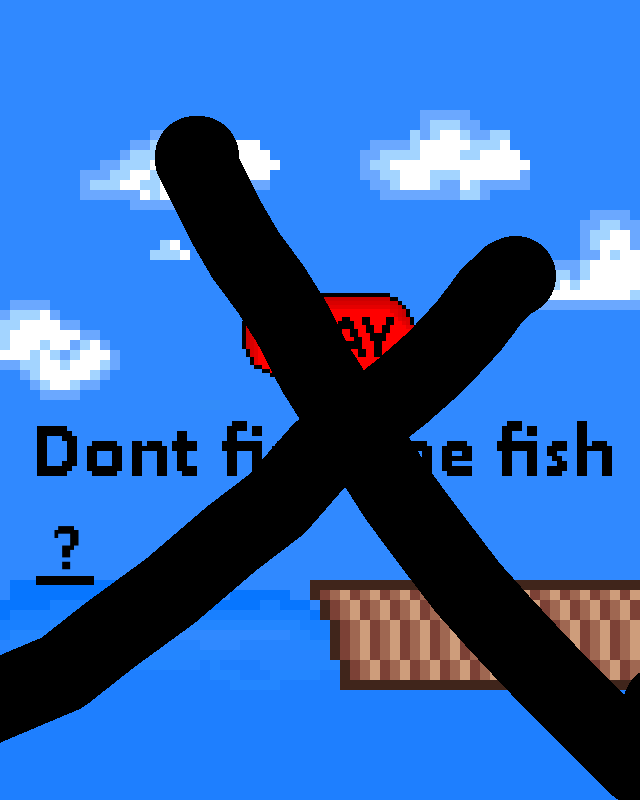
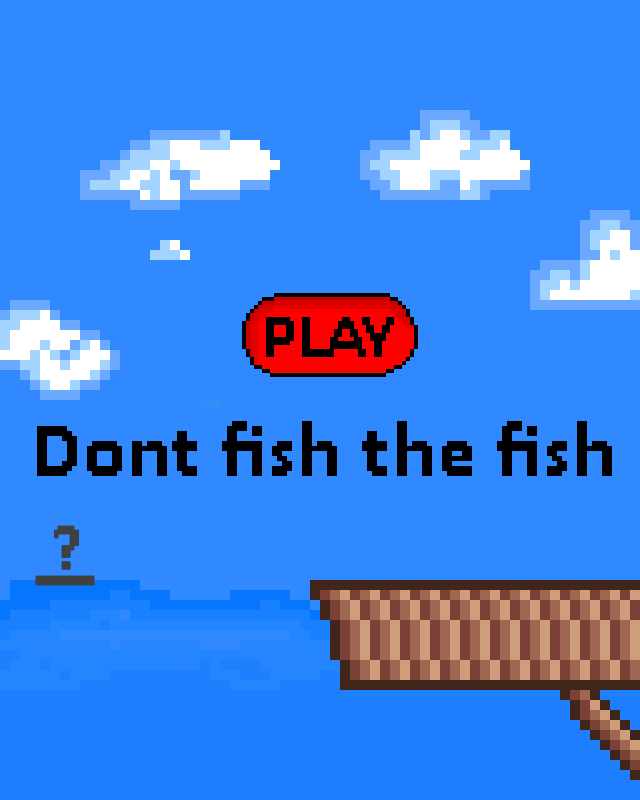
done?

Changed region(s): [[0.0, 0.125, 1.0, 1.0]]

diff --git a/build/build.js b/build/build.js
@@ -123,6 +123,33 @@ var Krog = (function () {
     };
     return Krog;
 }());
+var TutorialeKnap = (function () {
+    function TutorialeKnap(x, y, w, h) {
+        this.x = x;
+        this.y = y;
+        this.w = w;
+        this.h = h;
+    }
+    TutorialeKnap.prototype.clicked = function (func) {
+        if (playState != playStateList.tutoriale)
+            return;
+        if (mouseX > this.x && mouseX < this.x + this.w) {
+            if (mouseY > this.y && mouseY < this.y + this.h) {
+                func();
+            }
+        }
+    };
+    TutorialeKnap.prototype.hover = function () {
+        if (mouseX > this.x && mouseX < this.x + this.w) {
+            if (mouseY > this.y && mouseY < this.y + this.h) {
+                return true;
+            }
+            return false;
+        }
+        return false;
+    };
+    return TutorialeKnap;
+}());
 var PlayKnap = (function () {
     function PlayKnap(x, y, w, h, img) {
         this.img = img;
@@ -169,8 +196,14 @@ var Skrald = (function (_super) {
     }
     return Skrald;
 }(WaterItems));
-function loadImages() {
+function loadSprites() {
     mySound = loadSound("sketch/assets/Music/bagground.mp3");
+    tutorialeImg.push(loadImage("sketch/assets/tutoriale/reason.png"));
+    tutorialeImg.push(loadImage("sketch/assets/tutoriale/reason_next_hover.png"));
+    tutorialeImg.push(loadImage("sketch/assets/tutoriale/how_to.png"));
+    tutorialeImg.push(loadImage("sketch/assets/tutoriale/how_to_back_hover.png"));
+    tutorialeImg.push(loadImage("sketch/assets/tutoriale/reason_cross_hover.png"));
+    tutorialeImg.push(loadImage("sketch/assets/tutoriale/how_to_cross_hover.png"));
     startImg.push(loadImage("sketch/assets/Start/start1.png"));
     startImg.push(loadImage("sketch/assets/Start/start2.png"));
     startImg.push(loadImage("sketch/assets/Start/start0.gif"));
@@ -257,10 +290,12 @@ window.addEventListener("unload", function (event) {
     score.save();
 });
 var offset = -250;
+var tutorialeScreen = false;
 var hook;
 var skrald = [];
 var fisk = [];
 var deadFisk = [];
+var tutorialeImg = [];
 var pressSpace;
 var fishermanImg;
 var krogImg;
@@ -271,8 +306,8 @@ var deadFiskImg = [];
 var mySound;
 var startImg = [];
 var maxFrame1 = 7.6 * 60;
-var maxFrame2 = 4.3 * 60;
-var maxFrame3 = 4.3 * 60;
+var maxFrame2 = 2.2 * 60;
+var maxFrame3 = 2.2 * 60;
 var currentFrame = 0;
 var score;
 var playStateList;
@@ -287,24 +322,32 @@ var playStateList;
 var playState = playStateList.startLoading;
 var playKnap;
 var tutorialeKnap;
+var tutorialeVenstre;
+var tutorialeHøjre;
+var tutorialeLuk;
 var hookLevel = 400;
 var skraldAntal = 50;
 var fiskAntal = 30;
 var deadAntal = 30;
-var hitboxShow = true;
+var hitboxShow = false;
 function preload() {
-    loadImages();
+    loadSprites();
 }
 function setup() {
     createCanvas(640, 800);
     setupTrash();
     score = new Score();
     score.load();
+    tutorialeVenstre = new TutorialeKnap(69, 692, 64, 35);
+    tutorialeHøjre = new TutorialeKnap(524, 698, 63, 34);
+    tutorialeLuk = new TutorialeKnap(601, 0, 39, 46);
     playKnap = new PlayKnap(243, 294, 176, 84);
-    tutorialeKnap = new TutorialeKnap(36, 526, 58, 60);
+    tutorialeKnap = new OpenKnap(36, 526, 58, 60);
     hook = new Krog(krogImg, 640 / 2, hookLevel);
 }
 function draw() {
+    if (tutoriale())
+        return;
     if (animation())
         return;
     checkHook();
@@ -323,6 +366,16 @@ function draw() {
 function mousePressed() {
     playKnap.clicked();
     tutorialeKnap.hitbox();
+    tutorialeVenstre.clicked(function () {
+        tutorialeScreen = false;
+    });
+    tutorialeHøjre.clicked(function () {
+        tutorialeScreen = true;
+    });
+    tutorialeLuk.clicked(function () {
+        playState = playStateList.menu;
+        tutorialeScreen = false;
+    });
     console.log("NON-offset", mouseX, mouseY);
     console.log("offset", mouseX, mouseY - offset);
 }
@@ -375,14 +428,11 @@ function animation() {
         currentFrame++;
         return true;
     }
-    if (playState === playStateList.tutoriale) {
-        image(startImg[playState], 0, 0);
-        return true;
-    }
     if (playState === playStateList.menu) {
         background(220);
         image(startImg[playKnap.bagground()], 0, 0);
         playKnap.hover();
+        tutorialeKnap.hover();
         return true;
     }
     if (playState === playStateList.gameLoading) {
@@ -435,21 +485,48 @@ function waterItemsTick() {
         }
     }
 }
-var TutorialeKnap = (function () {
-    function TutorialeKnap(x, y, w, h) {
+function tutoriale() {
+    if (playState === playStateList.tutoriale) {
+        if (tutorialeScreen) {
+            if (tutorialeLuk.hover())
+                image(tutorialeImg[5], 0, 0);
+            else if (tutorialeVenstre.hover())
+                image(tutorialeImg[3], 0, 0);
+            else
+                image(tutorialeImg[2], 0, 0);
+        }
+        else {
+            if (tutorialeHøjre.hover())
+                image(tutorialeImg[1], 0, 0);
+            else if (tutorialeLuk.hover())
+                image(tutorialeImg[4], 0, 0);
+            else
+                image(tutorialeImg[0], 0, 0);
+        }
+        return true;
+    }
+}
+var OpenKnap = (function () {
+    function OpenKnap(x, y, w, h) {
         this.x = x;
         this.y = y;
         this.w = w;
         this.h = h;
     }
-    TutorialeKnap.prototype.hitbox = function () {
-        rect(this.x, this.y, this.w, this.h);
+    OpenKnap.prototype.hitbox = function () {
         if (mouseX > this.x && mouseX < this.x + this.w) {
             if (mouseY > this.y && mouseY < this.y + this.h) {
                 playState = playStateList.tutoriale;
             }
         }
     };
-    return TutorialeKnap;
+    OpenKnap.prototype.hover = function () {
+        if (mouseX > this.x && mouseX < this.x + this.w) {
+            if (mouseY > this.y && mouseY < this.y + this.h) {
+                image(startImg[4], 0, 0);
+            }
+        }
+    };
+    return OpenKnap;
 }());
 //# sourceMappingURL=build.js.map

diff --git a/sketch/sketch.ts b/sketch/sketch.ts
@@ -3,12 +3,14 @@ window.addEventListener("unload", function (event) {
   score.save();
 });
 let offset: number = -250;
+let tutorialeScreen: boolean = false;
 
 let hook: Krog;
 let skrald: Skrald[] = [];
 let fisk: Fisk[] = [];
 let deadFisk: DeadFisk[] = [];
 
+let tutorialeImg: p5.Image[] = [];
 let pressSpace: p5.Image;
 let fishermanImg: p5.Image;
 let krogImg: p5.Image;
@@ -21,8 +23,8 @@ let mySound: p5.SoundFile;
 // Animation
 let startImg: p5.Image[] = [];
 let maxFrame1: number = 7.6 * 60;
-let maxFrame2: number = 4.3 * 60;
-let maxFrame3: number = 4.3 * 60;
+let maxFrame2: number = 2.2 * 60;
+let maxFrame3: number = 2.2 * 60;
 let currentFrame: number = 0;
 
 let score: Score;
@@ -38,28 +40,36 @@ enum playStateList {
 let playState: playStateList = playStateList.startLoading;
 
 let playKnap: PlayKnap;
-let tutorialeKnap: TutorialeKnap;
+let tutorialeKnap: OpenKnap;
+let tutorialeVenstre: TutorialeKnap;
+let tutorialeHøjre: TutorialeKnap;
+let tutorialeLuk: TutorialeKnap;
 
 const hookLevel: number = 400;
 const skraldAntal: number = 50;
 const fiskAntal: number = 30;
 const deadAntal: number = 30;
-const hitboxShow: boolean = true;
+const hitboxShow: boolean = false;
 
 function preload() {
-  loadImages();
+  loadSprites();
 }
 function setup() {
   createCanvas(640, 800);
   setupTrash();
   score = new Score();
   score.load();
+  tutorialeVenstre = new TutorialeKnap(69, 692, 64, 35);
+  tutorialeHøjre = new TutorialeKnap(524, 698, 63, 34);
+  tutorialeLuk = new TutorialeKnap(601, 0, 39, 46);
+
   playKnap = new PlayKnap(243, 294, 176, 84);
-  tutorialeKnap = new TutorialeKnap(36, 526, 58, 60);
+  tutorialeKnap = new OpenKnap(36, 526, 58, 60);
   hook = new Krog(krogImg, 640 / 2, hookLevel);
 }
 
 function draw() {
+  if (tutoriale()) return;
   if (animation()) return;
 
   checkHook();
@@ -83,6 +93,17 @@ function draw() {
 function mousePressed() {
   playKnap.clicked();
   tutorialeKnap.hitbox();
+
+  tutorialeVenstre.clicked(() => {
+    tutorialeScreen = false;
+  });
+  tutorialeHøjre.clicked(() => {
+    tutorialeScreen = true;
+  });
+  tutorialeLuk.clicked(() => {
+    playState = playStateList.menu;
+    tutorialeScreen = false;
+  });
 
   //TODO remove
   console.log("NON-offset", mouseX, mouseY);
@@ -143,6 +164,7 @@ function animation(): boolean {
   if (playState === playStateList.startLoading) {
     image(startImg[playState], 0, 0);
     if (currentFrame === maxFrame1) {
+      // @ts-ignore
       startImg[playState].setFrame(0);
 
       playState = playStateList.menu;
@@ -153,16 +175,11 @@ function animation(): boolean {
     return true;
   }
 
-  if (playState === playStateList.tutoriale) {
-    image(startImg[playState], 0, 0);
-    return true;
-  }
-
   if (playState === playStateList.menu) {
     background(220);
     image(startImg[playKnap.bagground()], 0, 0);
     playKnap.hover();
-
+    tutorialeKnap.hover();
     return true;
   }
 
@@ -170,6 +187,7 @@ function animation(): boolean {
     image(startImg[playState], 0, 0);
 
     if (currentFrame === maxFrame2) {
+      // @ts-ignore
       startImg[playState].setFrame(0);
 
       playState = playStateList.play;
@@ -182,6 +200,7 @@ function animation(): boolean {
   if (playState === playStateList.restartLoading) {
     image(startImg[playState], 0, 0);
     if (currentFrame === maxFrame3) {
+      // @ts-ignore
       startImg[playState].setFrame(0);
 
       playState = playStateList.menu;
@@ -219,5 +238,20 @@ function waterItemsTick() {
       hook.addHook(deadFisk[i]);
       deadFisk.splice(i, 1);
     }
+  }
+}
+
+function tutoriale(): boolean {
+  if (playState === playStateList.tutoriale) {
+    if (tutorialeScreen) {
+      if (tutorialeLuk.hover()) image(tutorialeImg[5], 0, 0);
+      else if (tutorialeVenstre.hover()) image(tutorialeImg[3], 0, 0);
+      else image(tutorialeImg[2], 0, 0);
+    } else {
+      if (tutorialeHøjre.hover()) image(tutorialeImg[1], 0, 0);
+      else if (tutorialeLuk.hover()) image(tutorialeImg[4], 0, 0);
+      else image(tutorialeImg[0], 0, 0);
+    }
+    return true;
   }
 }

diff --git a/sketch/imageLoad.ts b/sketch/imageLoad.ts
@@ -1,5 +1,16 @@
-function loadImages() {
+function loadSprites(): void {
   mySound = loadSound("sketch/assets/Music/bagground.mp3");
+
+  tutorialeImg.push(loadImage("sketch/assets/tutoriale/reason.png"));
+  tutorialeImg.push(loadImage("sketch/assets/tutoriale/reason_next_hover.png"));
+  tutorialeImg.push(loadImage("sketch/assets/tutoriale/how_to.png"));
+  tutorialeImg.push(loadImage("sketch/assets/tutoriale/how_to_back_hover.png"));
+  tutorialeImg.push(
+    loadImage("sketch/assets/tutoriale/reason_cross_hover.png")
+  );
+  tutorialeImg.push(
+    loadImage("sketch/assets/tutoriale/how_to_cross_hover.png")
+  );
 
   startImg.push(loadImage("sketch/assets/Start/start1.png")); // Start Animation
   startImg.push(loadImage("sketch/assets/Start/start2.png")); // non hover button

diff --git a/sketch/PileKnapper.ts b/sketch/PileKnapper.ts
@@ -1,4 +1,4 @@
-class OpenKnap {
+class TutorialeKnap {
   x: number;
   y: number;
   w: number;
@@ -10,18 +10,22 @@ class OpenKnap {
     this.h = h;
   }
 
-  hitbox() {
+  clicked(func: Function) {
+    if (playState != playStateList.tutoriale) return;
     if (mouseX > this.x && mouseX < this.x + this.w) {
       if (mouseY > this.y && mouseY < this.y + this.h) {
-        playState = playStateList.tutoriale;
+        func();
       }
     }
   }
-  hover() {
+
+  hover(): boolean {
     if (mouseX > this.x && mouseX < this.x + this.w) {
       if (mouseY > this.y && mouseY < this.y + this.h) {
-        image(startImg[4], 0, 0);
+        return true;
       }
+      return false;
     }
+    return false;
   }
 }
